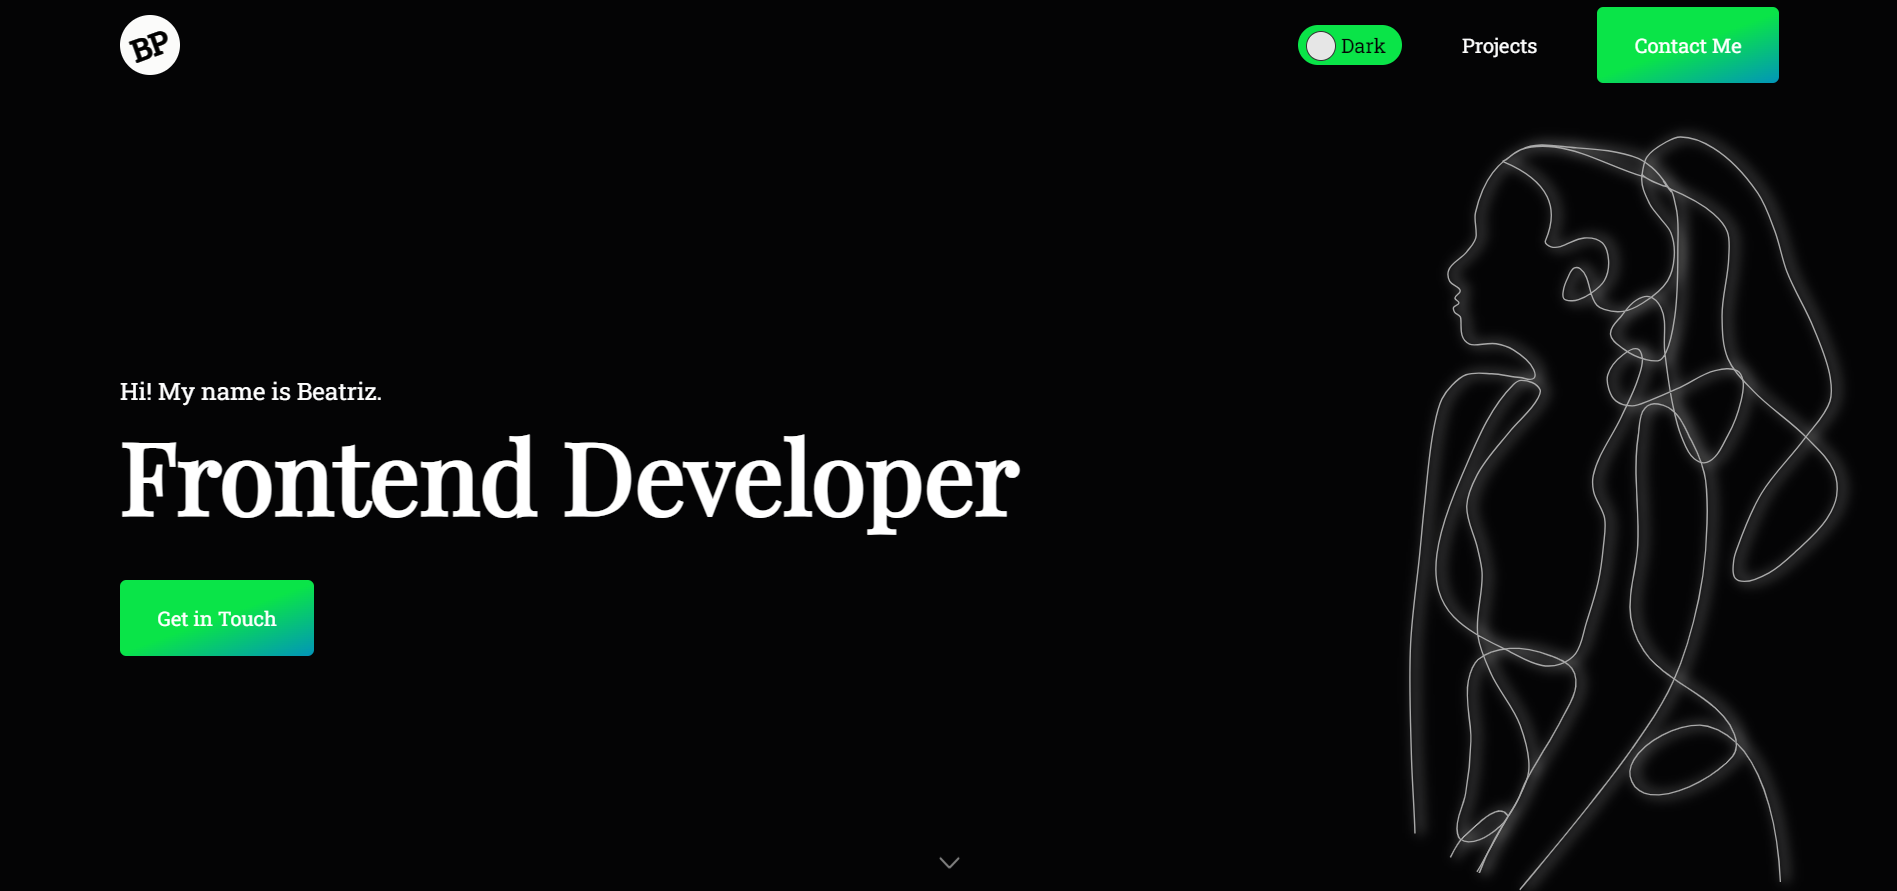
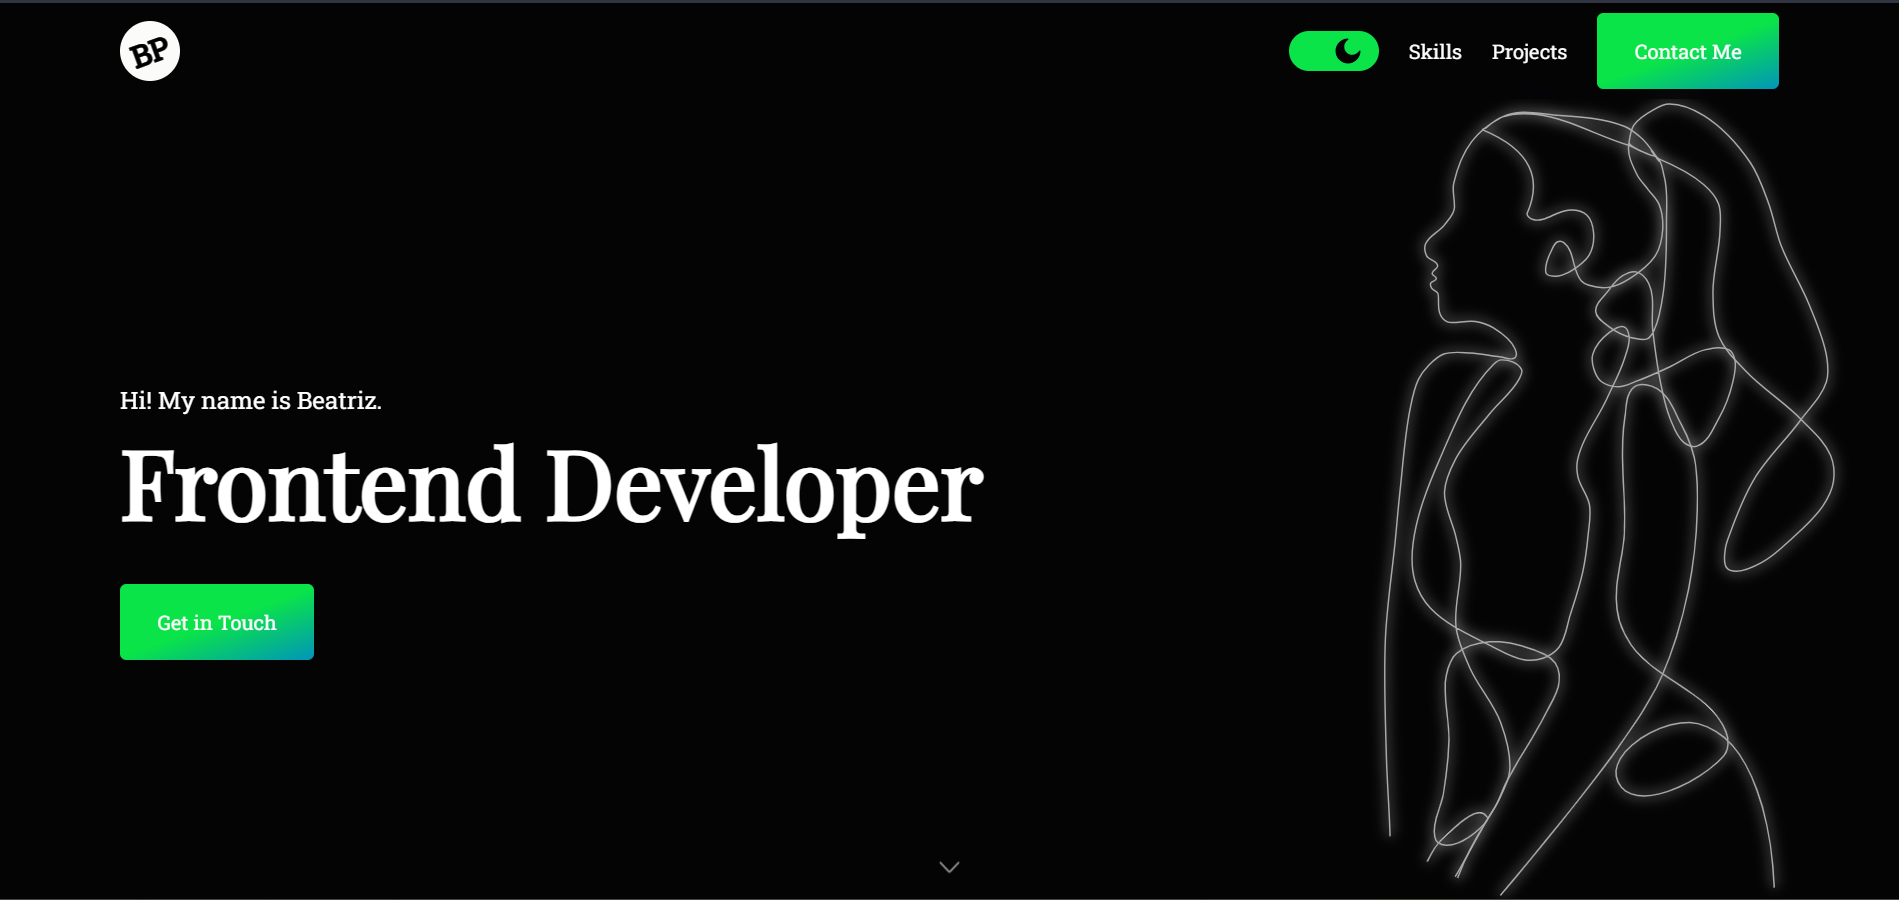
Add new images:
Fix description inside SkillsSection;
Put Skills inside Navigation;
Add a new portfolio image, because Skills url are inside Navigation;
Add a image to Tic Tac Toe Game;

diff --git a/portfolio/src/components/HomePage/SkillsSection/SkillsSection.tsx b/portfolio/src/components/HomePage/SkillsSection/SkillsSection.tsx
@@ -5,25 +5,22 @@ export default function SkillsSection() {
   const { darkMode } = useThemeContext()
 
   return (
-    <div className={`${styles.container} ${darkMode ? styles.dark_theme : ""}`}>
+    <div id="skills" className={`${styles.container} ${darkMode ? styles.dark_theme : ""}`}>
       <h2 className={styles.title}>Skills</h2>
       <div className={styles.description}>
-        <div>My name is Beatriz Pereira and I am a Frontend Developer based in Portugal.</div>
-        <div>
-          In 2023, I made the courageous decision to follow a new direction, abandoning my academic and professional path to dive head first into the
-          world of code.
-        </div>
+        {/* <div>My name is Beatriz Pereira and I am a Frontend Developer based in Portugal.</div> */}
+        <div>In 2023, I made the decision to abandoning my academic and professional path to dive head first into the world of code.</div>
         <div>
           This portfolio is a reflection of my journey throughout this year, a testament to my commitment, dedication and continuous learning.
         </div>
-        <div>Despite having dived head first into the world of code, I also discovered that life is not an infinite programming loop.</div>
+        {/* <div>Despite having dived head first into the world of code, I also discovered that life is not an infinite programming loop.</div> */}
         <div>
-          When I'm not busy with algorithms and bugs, you can find me galloping through the fields on top of a horse and braving the waters like an
-          intrepid swimmer.
+          When I'm not busy with algorithms and bugs, you can find me galloping through the fields on top of a horse, swim and taste delicius cakes
+          with a hint of secret code!
         </div>
         <div>
-          After all, between bits and bytes, you also need space to ride, swim, sweat and, of course, taste delicious cakes made with a hint of secret
-          code!
+          {/* After all, between bits and bytes, you also need space to ride, swim, sweat and, of course, taste delicious cakes made with a hint of secret
+          code! */}
         </div>
       </div>
       <div className={styles.skills}>

diff --git a/portfolio/src/components/HomePage/ProjectsSection/Project/Project.module.css b/portfolio/src/components/HomePage/ProjectsSection/Project/Project.module.css
@@ -14,7 +14,7 @@
   width: 35rem;
   flex: 1;
   padding: 0;
-  border: 1px solid #333;
+  border: 1px solid var(--grey);
 }
 
 .image {
@@ -56,7 +56,7 @@
 
 .description {
   line-height: 1.5rem;
-  text-align: center;
+  text-align: left;
 }
 
 .description li {
@@ -80,6 +80,10 @@
   background-color: #333;
 }
 
+.dark_theme .img_container {
+  border: 1px solid #333;
+}
+
 /* MEDIA QUERIES */
 
 @media (width < 1205px) {
@@ -97,6 +101,10 @@
     align-items: center;
   }
 
+  .title {
+    margin-top: 4rem;
+  }
+
   .description {
     display: flex;
     flex-wrap: wrap;
@@ -106,10 +114,6 @@
 @media (width < 1100px) {
   .container {
     padding: 0.5rem 1rem;
-  }
-
-  .title {
-    margin-top: 4rem;
   }
 }
 

diff --git a/portfolio/src/components/Layout/Header/ContactMe/ContactMe.module.css b/portfolio/src/components/Layout/Header/ContactMe/ContactMe.module.css
@@ -13,21 +13,6 @@
   align-items: center;
 }
 
-/* .contact_btn {
-  position: relative;
-  background-color: var(--white);
-  color: var(--dark_black);
-  border-radius: 10rem;
-  font-size: 1rem;
-  font-weight: bold;
-  padding: 1rem 2rem;
-  cursor: pointer;
-  transition: all 0.3s ease-in-out;
-  border: 1px solid var(--dark_black);
-  box-shadow: 0 0 0 0 var(--dark_black);
-  z-index: 2;
-} */
-
 .contact_btn:hover {
   transform: translateY(-4px) translateX(-2px);
   box-shadow: 2px 5px 0 0 var(--dark_black);

diff --git a/portfolio/src/components/HomePage/ProjectsSection/ProjectsSection.tsx b/portfolio/src/components/HomePage/ProjectsSection/ProjectsSection.tsx
@@ -51,7 +51,7 @@ export default function ProjectsSection() {
     },
     {
       id: 3,
-      imgURL: "",
+      imgURL: "./img/work.png",
       title: "Next Project: Tic Tac Toe",
       tags: ["Game"],
       description:

diff --git a/portfolio/src/components/Layout/Header/Header.tsx b/portfolio/src/components/Layout/Header/Header.tsx
@@ -12,6 +12,7 @@ export default function Header() {
 
       <div className={styles.right}>
         <Theme />
+        <a href="#skills">Skills</a>
         <a href="#projects">Projects</a>
 
         <Navigation />

diff --git a/portfolio/src/components/FancyButton/FancyButton.tsx b/portfolio/src/components/FancyButton/FancyButton.tsx
@@ -1,6 +1,5 @@
 import { ReactNode } from "react"
 import styles from "./FancyButton.module.css"
-import { useThemeContext } from "../context/ThemeContext"
 
 interface Props {
   url: string

diff --git a/portfolio/src/components/HomePage/ProjectsSection/Project/ProjectButton/ProjectButton.module.css b/portfolio/src/components/HomePage/ProjectsSection/Project/ProjectButton/ProjectButton.module.css
@@ -60,7 +60,6 @@
   background-color: var(--white);
   border: 1px solid var(--white);
 }
-/* FINISH STYLES DARK MODE */
 
 /* MEDIA QUERIES */
 
